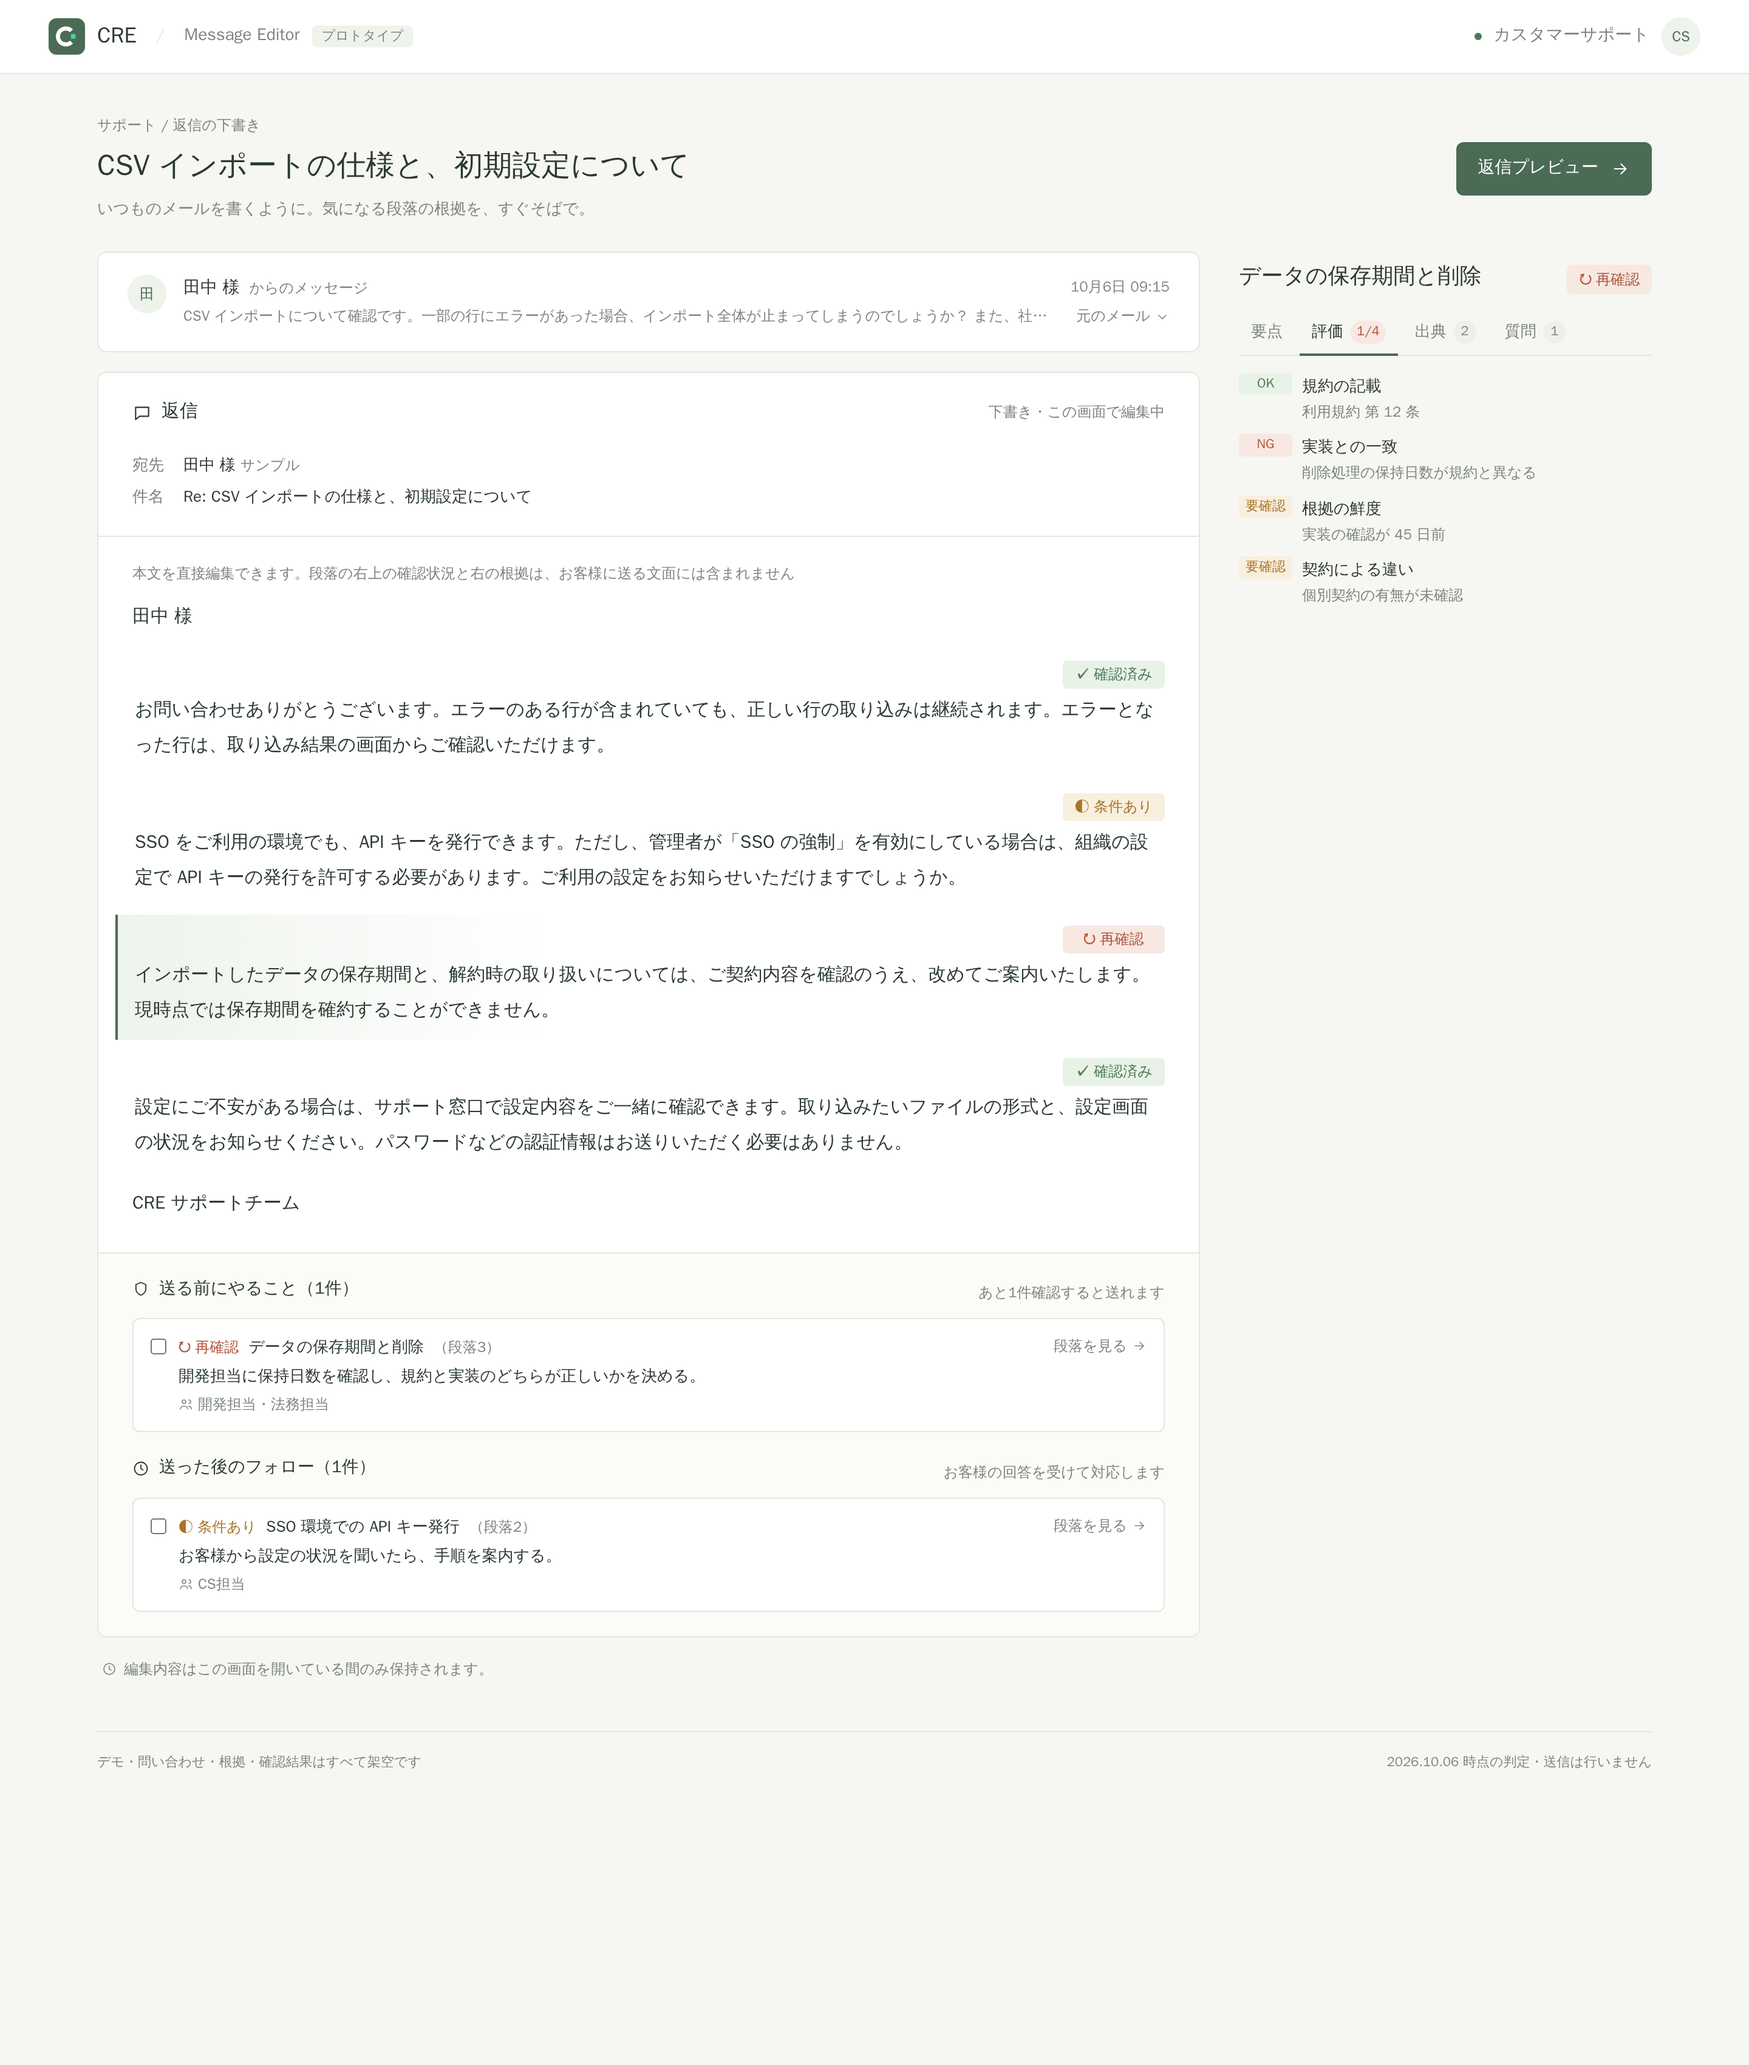
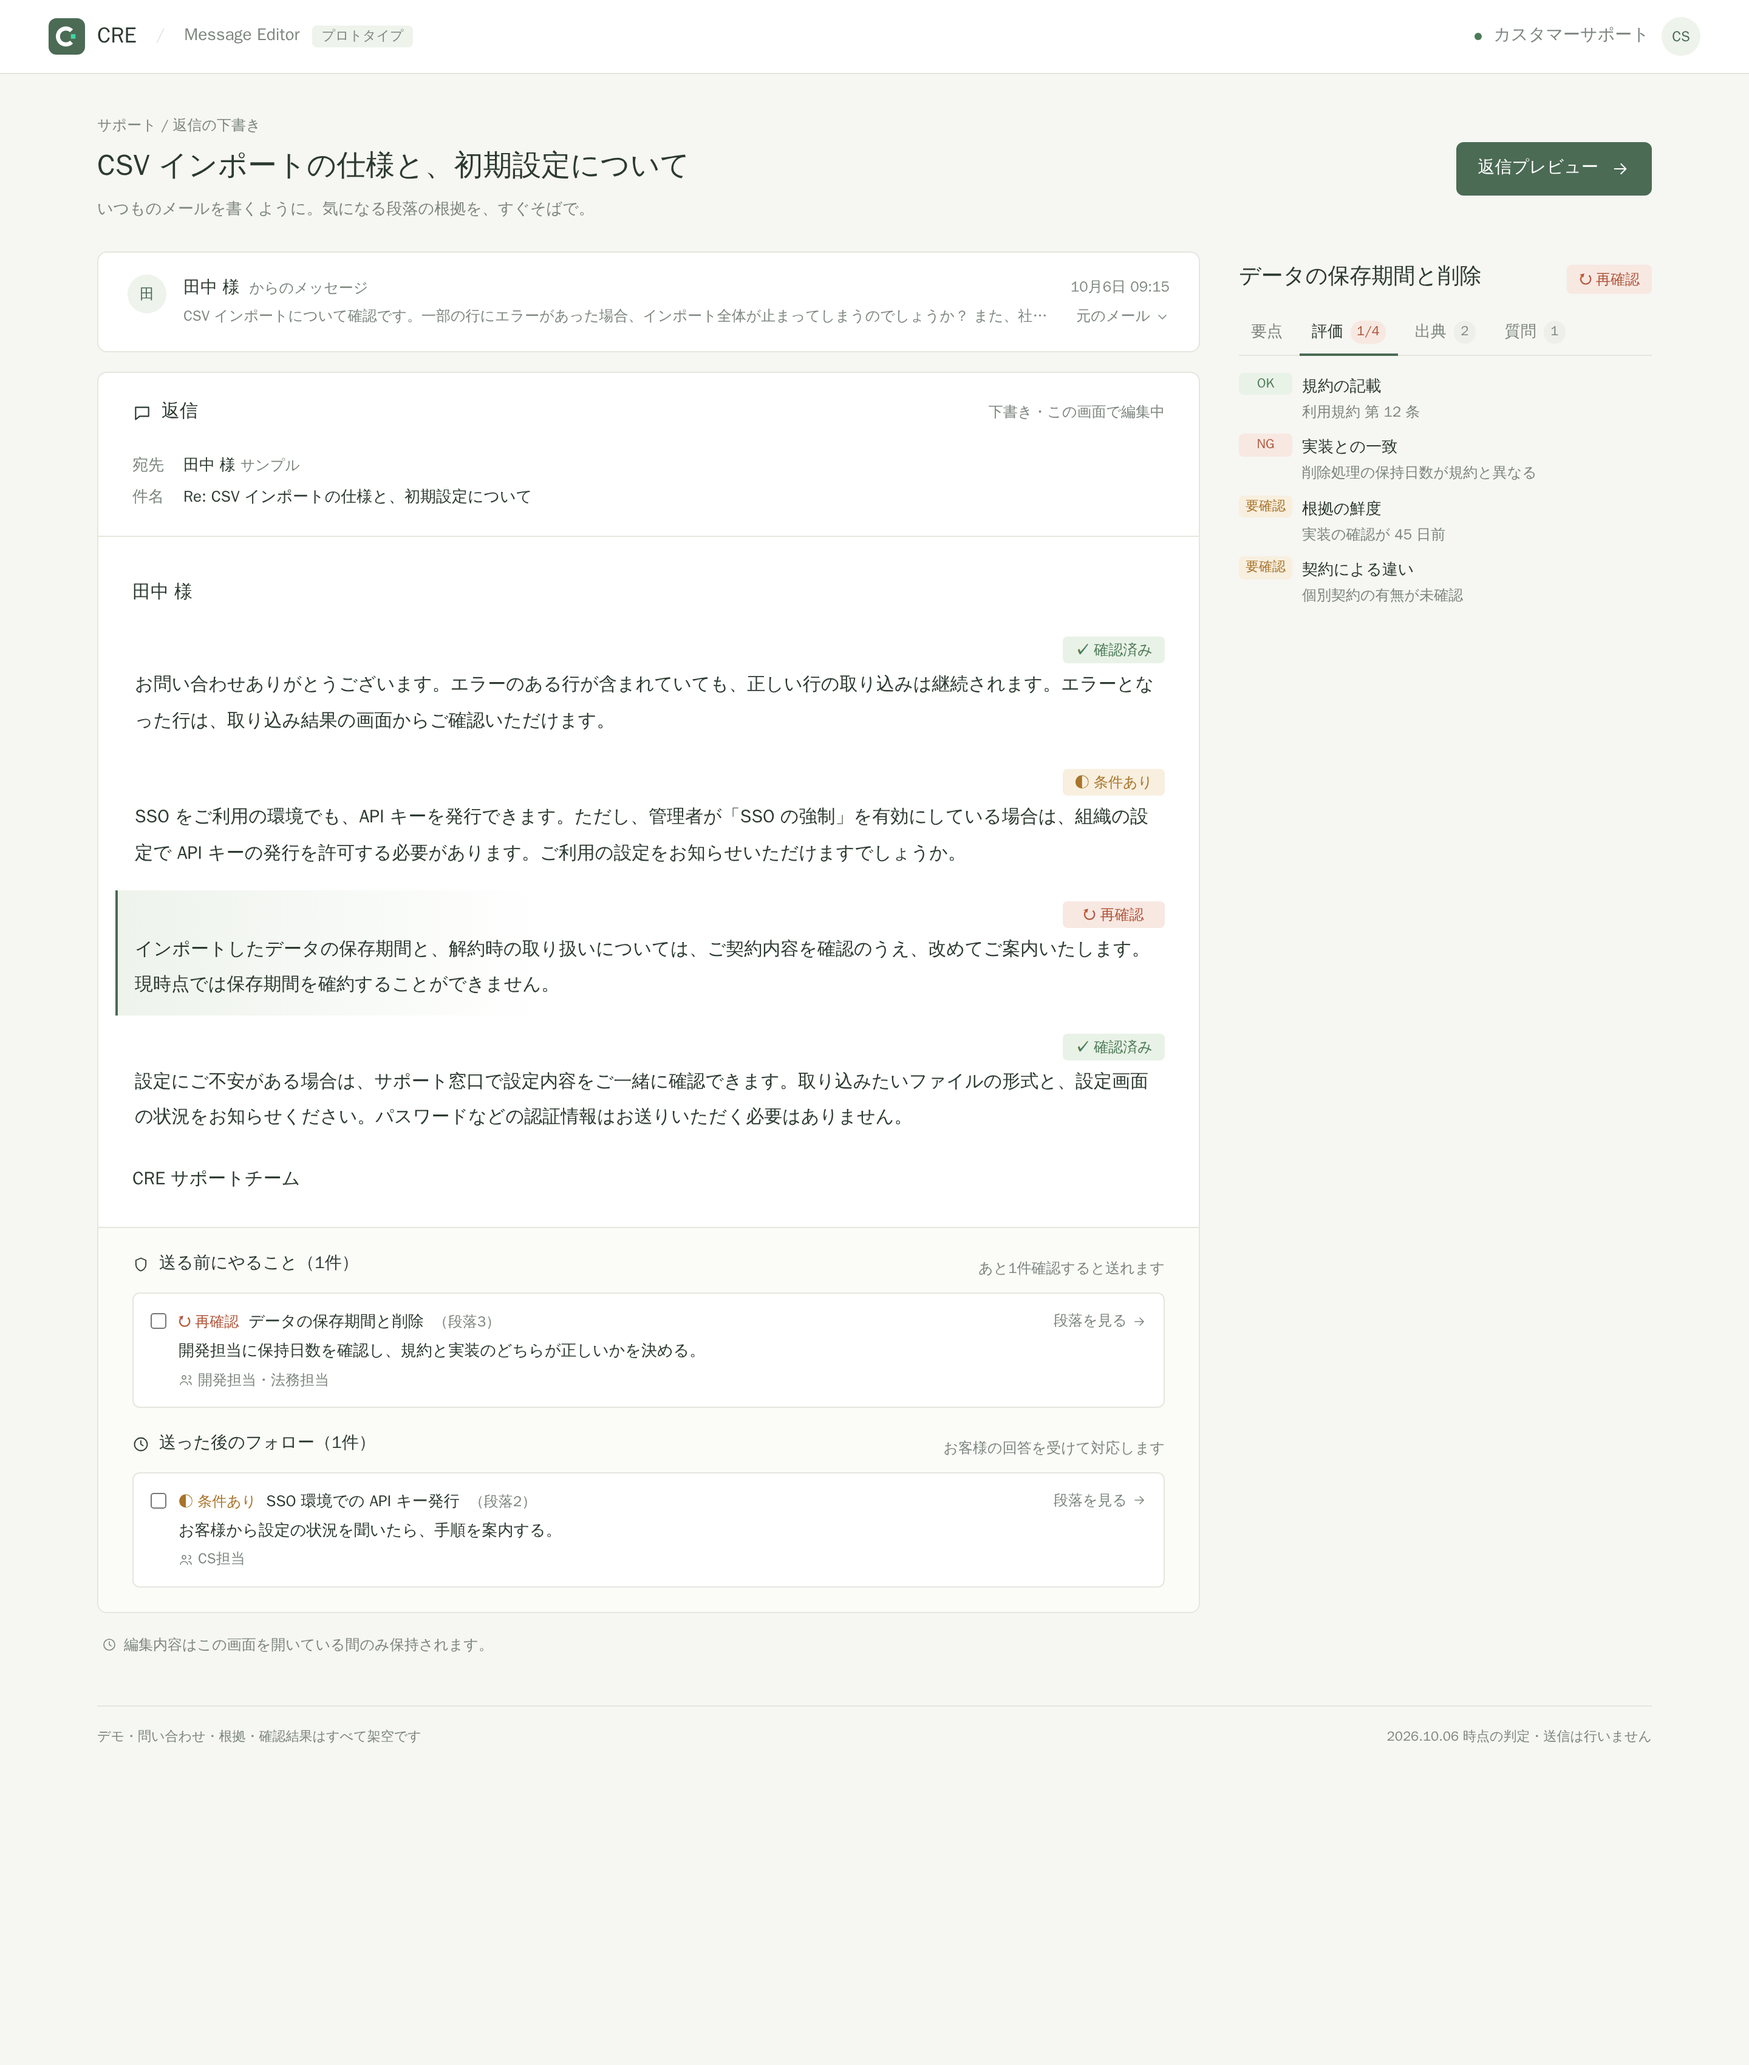
feat(message-editor): 返信プレビューに本文をコピーするボタンを追加し、返信の上の案内文を削除 (#40)
* feat(message-editor): 返信プレビューに本文をクリップボードにコピーするボタンを追加

Claude-Session: https://claude.ai/code/session_016Fg6tDmGyM7ByXZCKGMkQB

* docs(message-editor): コピーした文面がクリップボードに残ることをデータの取り扱いに書く

Claude-Session: https://claude.ai/code/session_016Fg6tDmGyM7ByXZCKGMkQB

* feat(message-editor): 返信の上の案内文を削除する

Claude-Session: https://claude.ai/code/session_016Fg6tDmGyM7ByXZCKGMkQB

* docs(message-editor): update guide screenshots

* test(message-editor): クリップボードの約束を約束用 E2E で確かめ、ガイドからリンクする

Claude-Session: https://claude.ai/code/session_016Fg6tDmGyM7ByXZCKGMkQB

---------

diff --git a/apps/message-editor/e2e/guide-message-editor-data-handling.e2e.ts b/apps/message-editor/e2e/guide-message-editor-data-handling.e2e.ts
@@ -4,7 +4,7 @@
  *
  * ガイドの表「どこに届き、どこに届かないか」と「受け付けないデータ」の各行を、実際のブラウザで確かめる。
  * 約束のテストはこのファイルと tests/data-handling.test.ts にだけ置く（tested バッジと guide-promises.test.ts が突き合わせる）。
- * 「ブラウザの履歴・ブックマーク」「チャットに貼った URL」の行はブラウザや外部サービスの振る舞いなのでテストしない。
+ * 「ブラウザの履歴・ブックマーク」「チャットに貼った URL」の行と、コピーした文面が画面を閉じた後も残ることはテストしない（ブラウザ・OS・外部サービスの振る舞い）。
  * 画像は撮らない（見た目ではなく、通信と保存の有無を見る）。
  */
 import { type Page, expect, test } from "@playwright/test";
@@ -158,4 +158,31 @@ test("壊れた判定データでは見本データとエラーを表示する",
   await page.goto("/#d=broken");
   await expect(page.getByText("URL のデータを読み込めませんでした")).toBeVisible();
   await expect(page.getByRole("heading", { level: 1 })).toHaveText(samplePayload.inquiry.subject);
+});
+
+test("クリップボードには、コピーボタンを押したときだけ送る文面が入り、注釈や件名は入らない", async ({
+  page,
+  context,
+}) => {
+  await context.grantPermissions(["clipboard-read", "clipboard-write"]);
+  await page.goto(`/${toHash(payload)}`);
+  await expect(page.getByRole("heading", { level: 1 })).toHaveText(`${MARK} の件名`);
+  await page.evaluate(() => navigator.clipboard.writeText("コピー前"));
+  const clipboard = () => page.evaluate(() => navigator.clipboard.readText());
+
+  // ガイドの手順を一通り行っても、コピーボタンを押さなければクリップボードは変わらない
+  await operate(page);
+  expect(await clipboard()).toBe("コピー前");
+
+  await page.getByRole("button", { name: "返信プレビュー" }).click();
+  const dialog = page.getByRole("dialog", { name: "返信プレビュー" });
+  await dialog.getByRole("button", { name: "本文をコピー" }).click();
+  await expect(dialog.getByRole("button", { name: "コピーしました" })).toBeVisible();
+
+  // 段落の間は空行。宛名・編集した本文・結びだけで、確認状況や件名（判定データの目印）は入らない
+  const copied = await clipboard();
+  expect(copied.startsWith(`${samplePayload.reply.opening}\n\n編集した本文\n\n`)).toBe(true);
+  expect(copied.endsWith(`\n\n${samplePayload.reply.closing}`)).toBe(true);
+  expect(copied).not.toContain(MARK);
+  expect(copied).not.toContain("確認済み");
 });

diff --git a/apps/message-editor/src/components/PreviewDialog.tsx b/apps/message-editor/src/components/PreviewDialog.tsx
@@ -1,5 +1,14 @@
+import { useEffect, useState } from "react";
 import type { Reply } from "@cre/editor-payload";
 import { Icon } from "./Icon.tsx";
+
+type CopyState = "idle" | "copied" | "failed";
+
+const COPY_LABEL: Record<CopyState, string> = {
+  idle: "本文をコピー",
+  copied: "コピーしました",
+  failed: "コピーできませんでした",
+};
 
 /** お客様に送る文面だけを表示する（注釈は含めない） */
 export const PreviewDialog = ({
@@ -16,6 +25,22 @@ export const PreviewDialog = ({
     ...reply.paragraphs.map((p) => texts[p.id] ?? p.text),
     reply.closing,
   ].filter(Boolean);
+
+  const [copy, setCopy] = useState<CopyState>("idle");
+  useEffect(() => {
+    if (copy === "idle") {
+      return;
+    }
+    const timer = setTimeout(() => setCopy("idle"), 2000);
+    return () => clearTimeout(timer);
+  }, [copy]);
+  // 段落の間は空行にして、メールにそのまま貼れる形でコピーする
+  const copyBody = () =>
+    navigator.clipboard.writeText(body.join("\n\n")).then(
+      () => setCopy("copied"),
+      () => setCopy("failed"),
+    );
+
   return (
     <div className="dialog-backdrop" role="presentation" onClick={onClose}>
       <div
@@ -27,9 +52,20 @@ export const PreviewDialog = ({
       >
         <div className="dialog-head">
           <h2 id="preview-title">返信プレビュー</h2>
-          <button type="button" className="icon-button" aria-label="閉じる" onClick={onClose}>
-            <Icon name="x" />
-          </button>
+          <div className="dialog-actions">
+            <button
+              type="button"
+              className="icon-button"
+              aria-label={COPY_LABEL[copy]}
+              title={COPY_LABEL[copy]}
+              onClick={copyBody}
+            >
+              <Icon name={copy === "copied" ? "check" : copy === "failed" ? "x" : "copy"} />
+            </button>
+            <button type="button" className="icon-button" aria-label="閉じる" onClick={onClose}>
+              <Icon name="x" />
+            </button>
+          </div>
         </div>
         <p className="muted small">
           宛先: {reply.to} ・ 件名: {reply.subject}

diff --git a/apps/message-editor/src/components/ReplyEditor.tsx b/apps/message-editor/src/components/ReplyEditor.tsx
@@ -47,10 +47,6 @@ export const ReplyEditor = ({
       </dl>
 
       <div className="reply-body">
-        <p className="reply-toolbar muted small">
-          本文を直接編集できます。段落の右上の確認状況と右の根拠は、お客様に送る文面には含まれません
-        </p>
-
         {reply.opening && <p className="reply-plain">{reply.opening}</p>}
 
         {paragraphs.map((p) => {

diff --git a/apps/message-editor/src/styles.css b/apps/message-editor/src/styles.css
@@ -309,10 +309,6 @@ h1 {
   padding: 20px 28px 12px;
 }
 
-.reply-toolbar {
-  margin-bottom: 12px;
-}
-
 .reply-plain {
   margin: 14px 0;
   font-size: 15px;
@@ -788,6 +784,11 @@ h1 {
   display: flex;
   align-items: center;
   justify-content: space-between;
+}
+
+.dialog-actions {
+  display: flex;
+  gap: 4px;
 }
 
 .dialog-head h2 {

diff --git a/apps/message-editor/src/components/Icon.tsx b/apps/message-editor/src/components/Icon.tsx
@@ -13,6 +13,7 @@ const PATHS = {
     "M9 11a3 3 0 1 0 0-6 3 3 0 0 0 0 6zM3 20c0-3 3-5 6-5s6 2 6 5M17 11a3 3 0 1 0 0-6M21 20c0-2.5-1.5-4.3-4-4.9",
   check: "M5 12l5 5 9-10",
   x: "M6 6l12 12M18 6L6 18",
+  copy: "M9 9h11v11H9zM5 15H4V4h11v1",
 } as const;
 
 export type IconName = keyof typeof PATHS;

diff --git a/apps/message-editor/README.md b/apps/message-editor/README.md
@@ -37,6 +37,7 @@ vp run @cre/message-editor#build
 - 判定データは URL の `#` 以降に載るため、サーバー（Cloudflare）には送られません。Worker にロジックはなく、静的ファイルを返すだけです
 - 画面はデータをブラウザの中だけで復号・表示します。`fetch` などでの送信、解析タグ・外部スクリプトの読み込み、
   `localStorage` などへの保存は行いません。編集内容は React の state だけに持ち、画面を閉じると消えます
+  （返信プレビューのコピーボタンでクリップボードにコピーした文面は残ります）
 - 根拠のリンクは `rel="noreferrer"` 付きで新しいタブに開くため、遷移先に URL（判定データ）も `window.opener` も渡しません
 - ただし URL は圧縮されているだけで暗号化はされていません。ブラウザの履歴やブックマーク、リンクを貼ったチャットやチケットには残ります。
   実際の問い合わせ内容を扱う URL は、権限管理された場所にだけ貼ってください
